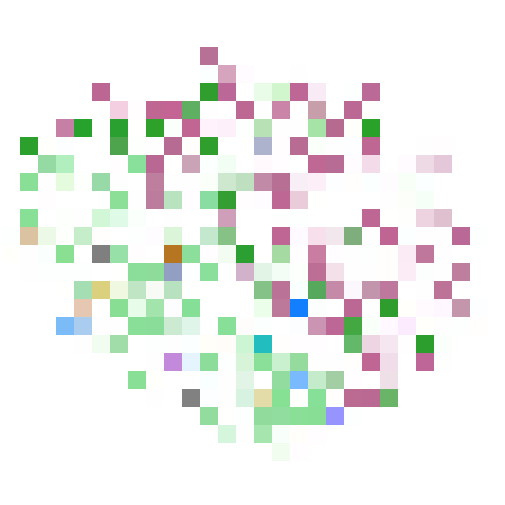
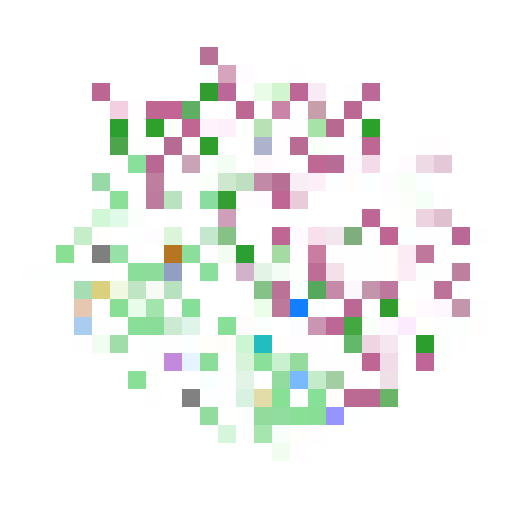
.

Changed region(s): [[0.0297, 0.2376, 0.2079, 0.3861], [0.0297, 0.4158, 0.0891, 0.505], [0.0891, 0.6238, 0.1485, 0.6832]]

diff --git a/_includes/_image-gallery-index.html b/_includes/_image-gallery-index.html
@@ -5,4 +5,4 @@
     .image-gallery-index a span {display: block; text-align: center; padding: 0px 0;}
 </style>
 
-<p class="image-gallery-index">{% for item in page.galleries %}<a href="{{ item.url }}" title="{{ item.title }}"><img src="//images.weserv.nl/?url={{ site.url | replace: 'http://','' | replace: 'https://','' }}{{ item.image }}&w=300&h=300&il&output=jpg&q=100&filt=greyscale&t=square&a=entropy&mbg=white" /><span>{{ item.title }}</span></a>{% endfor %}</p>
+<p class="image-gallery-index">{% for item in page.galleries %}<a href="{{ item.url }}" title="{{ item.title }}"><img src="//images.weserv.nl/?url={{ site.url | replace: 'http://','' | replace: 'https://','' }}{{ item.image }}&w=300&h=300&il&output=jpg&q=100&filt=greyscale&t=square&a=entropy&mask=circle&mbg=white" /><span>{{ item.title }}</span></a>{% endfor %}</p>
